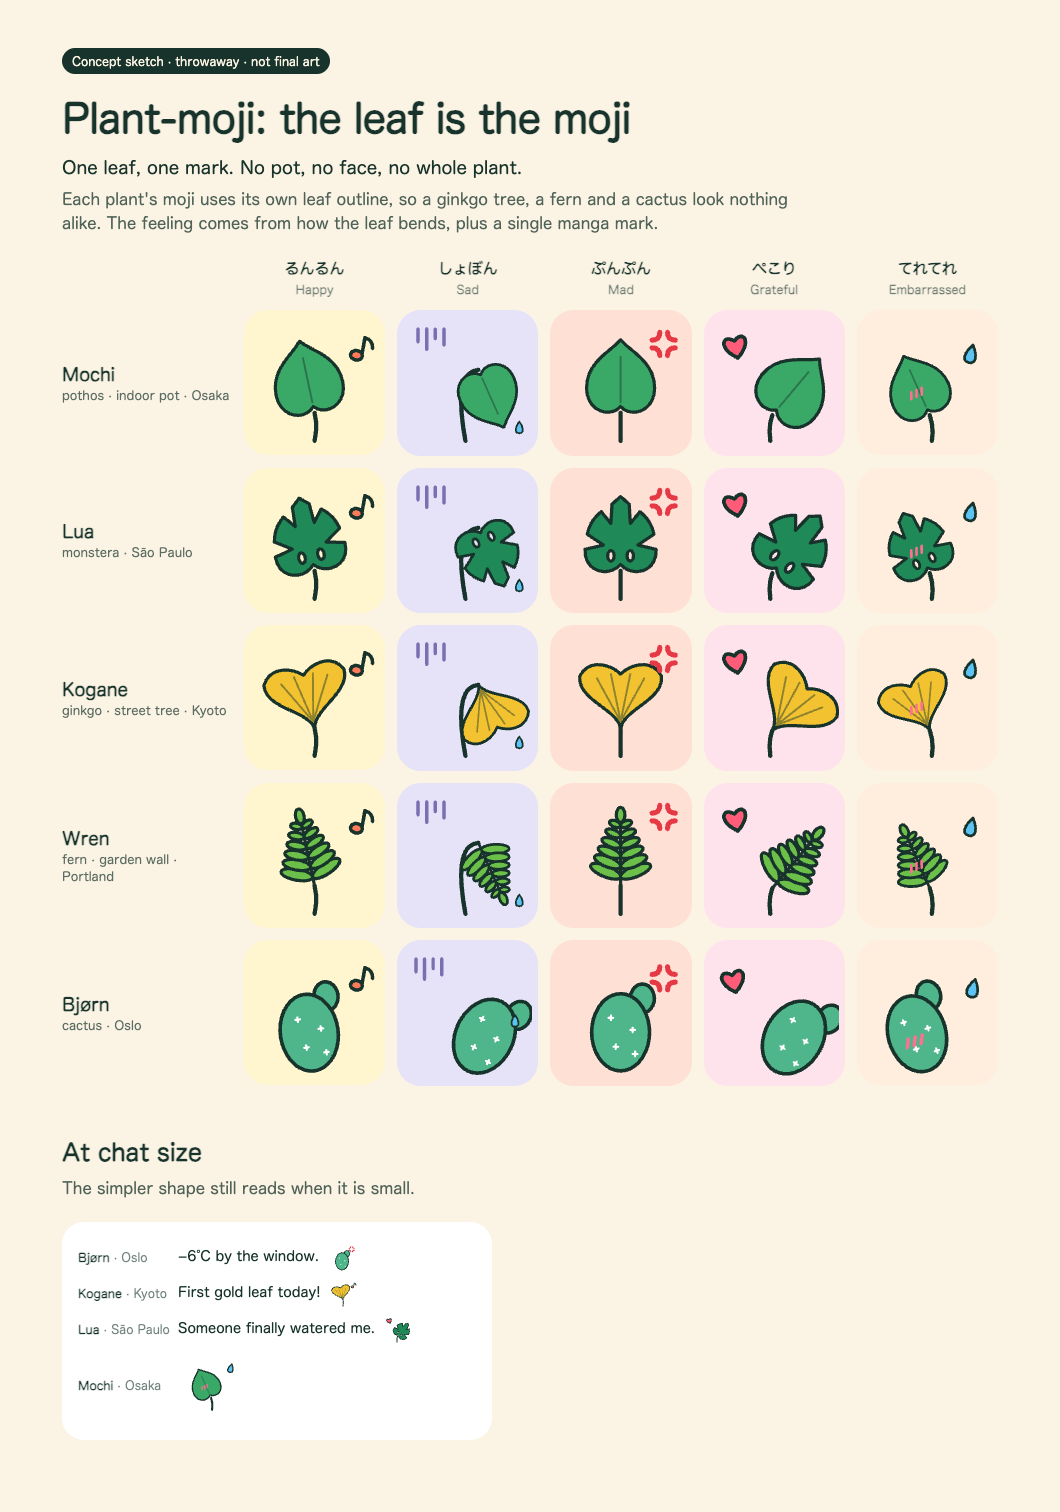
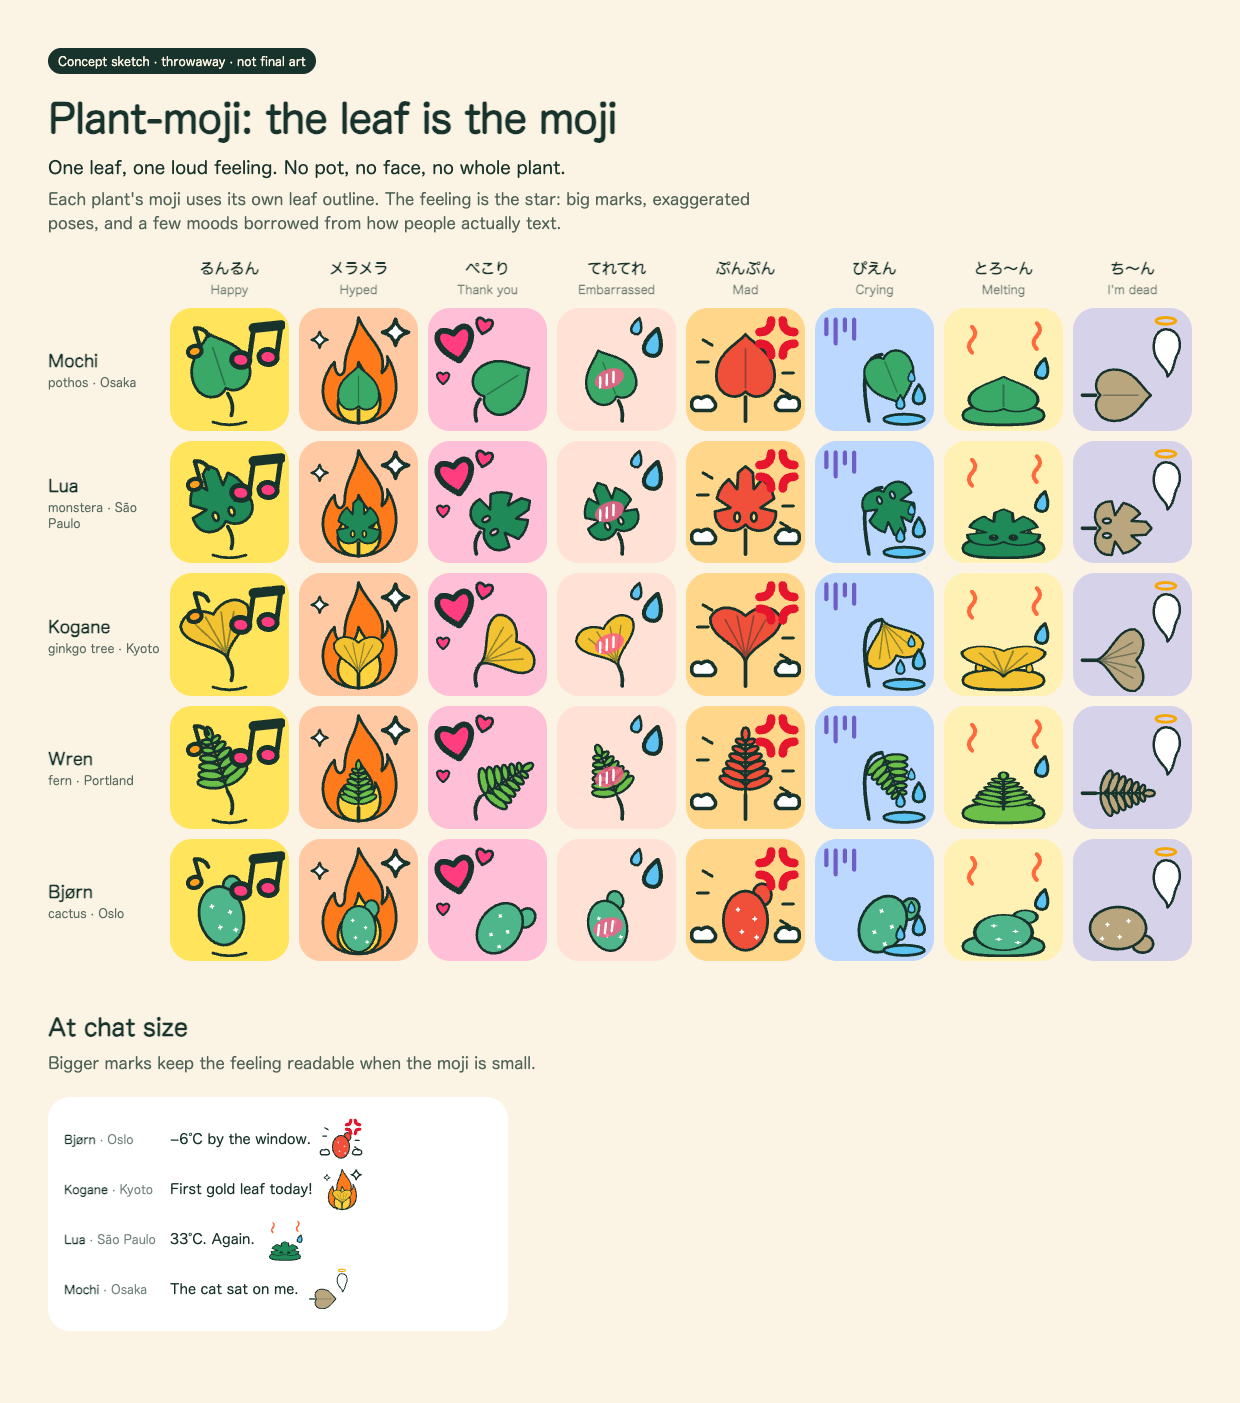
feat(mockups): make plant-moji feelings louder and funnier
Bigger marks, exaggerated poses, and new moods: hyped, crying,
melting and I'm dead.

Claude-Session: https://claude.ai/code/session_018BJkmKwSHGXgfyQunbc3B2

diff --git a/mockups/plant-moji/plant-moji-leaf.html b/mockups/plant-moji/plant-moji-leaf.html
@@ -9,45 +9,44 @@
   * { box-sizing: border-box; }
   body { margin:0; background:var(--cream); color:var(--ink);
     font-family: ui-rounded, "Hiragino Maru Gothic ProN", "Nunito", system-ui, sans-serif; }
-  main { max-width:1000px; margin:0 auto; padding:48px 32px 72px; }
+  main { max-width:1200px; margin:0 auto; padding:48px 28px 72px; }
   h1 { font-size:40px; margin:0 0 6px; letter-spacing:-.5px; }
   h2 { font-size:24px; margin:48px 0 6px; }
   p.lead { font-size:18px; margin:0 0 6px; max-width:720px; line-height:1.5; }
   p.sub { margin:0 0 22px; opacity:.75; max-width:740px; line-height:1.5; }
   .tag { display:inline-block; background:var(--ink); color:var(--cream); font-size:12px; padding:4px 10px; border-radius:99px; margin-bottom:14px; }
-  .table { display:grid; grid-template-columns:170px repeat(5,1fr); gap:12px; align-items:center; }
+  .table { display:grid; grid-template-columns:112px repeat(8,1fr); gap:10px; align-items:center; }
   .head { text-align:center; font-weight:800; font-size:15px; }
   .head small { display:block; font-weight:600; opacity:.6; font-size:12px; }
-  .plant b { font-size:18px; display:block; } .plant span { font-size:12.5px; opacity:.7; line-height:1.35; display:block; }
-  .cell { background:#fff; border-radius:24px; padding:6px; }
+  .plant b { font-size:17px; display:block; } .plant span { font-size:12px; opacity:.7; line-height:1.35; display:block; }
+  .cell { border-radius:22px; padding:4px; }
   .cell svg { width:100%; height:auto; display:block; }
-  .chat { background:#fff; border-radius:22px; padding:14px 16px; max-width:430px; }
+  .chat { background:#fff; border-radius:22px; padding:14px 16px; max-width:460px; }
   .row { display:flex; align-items:center; gap:8px; font-size:14px; margin:6px 0; }
-  .row svg { width:30px; height:30px; flex:none; }
-  .row .big svg { width:64px; height:64px; }
-  .n { font-weight:800; font-size:12px; min-width:92px; } .n i { font-style:normal; font-weight:500; opacity:.6; }
+  .row svg { width:44px; height:44px; flex:none; }
+  .n { font-weight:800; font-size:12px; min-width:98px; } .n i { font-style:normal; font-weight:500; opacity:.6; }
   .ink * { stroke:var(--ink); stroke-width:3; stroke-linejoin:round; stroke-linecap:round; }
   .ink .line { fill:none !important; }
+  .ink .flat { stroke-width:0; }
 </style>
 </head>
 <body>
 <main>
   <span class="tag">Concept sketch · throwaway · not final art</span>
   <h1>Plant-moji: the leaf is the moji</h1>
-  <p class="lead">One leaf, one mark. No pot, no face, no whole plant.</p>
-  <p class="sub">Each plant's moji uses its own leaf outline, so a ginkgo tree, a fern and a cactus look nothing alike. The feeling comes from how the leaf bends, plus a single manga mark.</p>
+  <p class="lead">One leaf, one loud feeling. No pot, no face, no whole plant.</p>
+  <p class="sub">Each plant's moji uses its own leaf outline. The feeling is the star: big marks, exaggerated poses, and a few moods borrowed from how people actually text.</p>
 
   <div class="table" id="table"></div>
 
   <h2>At chat size</h2>
-  <p class="sub">The simpler shape still reads when it is small.</p>
+  <p class="sub">Bigger marks keep the feeling readable when the moji is small.</p>
   <div class="chat" id="chat"></div>
 </main>
 
 <script>
-const rad = d => d * Math.PI / 180;
 const svg = body => `<svg viewBox="0 0 120 124" xmlns="http://www.w3.org/2000/svg"><g class="ink">${body}</g></svg>`;
-const T = (x, y, s = 1, r = 0) => `transform="translate(${x} ${y}) rotate(${r}) scale(${s})"`;
+const T = (x, y, s = 1, r = 0, sy = s) => `transform="translate(${x} ${y}) rotate(${r}) scale(${s} ${sy})"`;
 const thin = d => `<path class="line" d="${d}" style="stroke-width:1.8;opacity:.45"/>`;
 
 // leaf blades: base at 0,0, pointing up, about 68 tall
@@ -62,40 +61,56 @@ const SHAPES = {
   cactus: c => `<ellipse cx="18" cy="-60" rx="10" ry="12" fill="${c}"/><ellipse cx="0" cy="-32" rx="24" ry="32" fill="${c}"/>` +
     `<path class="line" d="M-10 -44 h4 M-8 -46 v4 M8 -34 h4 M10 -36 v4 M-6 -20 h4 M-4 -22 v4 M10 -14 h4 M12 -16 v4" style="stroke:#fff;stroke-width:1.8"/>`,
 };
-// one mark each
-const note = (x, y) => `<g ${T(x, y, 1.1, 10)}><path class="line" d="M4.5 6 V-10 q7 1 8 8"/><ellipse cx="0" cy="6" rx="5" ry="4" fill="#ff7a59"/></g>`;
-const drop = (x, y, s = 1, r = 0) => `<path ${T(x, y, s, r)} d="M0 -11 C 8 0 8 9 0 9 C -8 9 -8 0 0 -11Z" fill="#5cc3f2"/>`;
-const anger = (x, y) => `<path class="line" ${T(x, y, 1.2)} d="M-9 -3 q6 0 6 -6 M3 -9 q0 6 6 6 M9 3 q-6 0 -6 6 M-3 9 q0 -6 -6 -6" style="stroke:#e63946;stroke-width:4"/>`;
-const heart = (x, y) => `<path ${T(x, y, 1.15, -12)} d="M0 8 C -15 -3 -8 -14 0 -6 C 8 -14 15 -3 0 8Z" fill="#ff5c7a"/>`;
-const blush = `<path class="line" d="M-8 -30 l-3 7 M-2 -30 l-3 7 M4 -30 l-3 7" style="stroke:#ff6f91;stroke-width:2.8"/>`;
-const gloom = (x, y) => `<path class="line" transform="translate(${x} ${y})" d="M0 0 v12 M8 0 v19 M16 0 v9 M24 0 v15" style="stroke:#7a6fb0;stroke-width:3.2"/>`;
 
+// loud marks
+const notes = (x, y, s, r, c) => `<g ${T(x, y, s, r)}><path class="line" d="M-5 8 V-12 L11 -16 V4"/><path class="line" d="M-5 -12 L11 -16" style="stroke-width:6"/><ellipse cx="-10" cy="8" rx="5.5" ry="4.5" fill="${c}"/><ellipse cx="6" cy="4" rx="5.5" ry="4.5" fill="${c}"/></g>`;
+const note1 = (x, y, s, r, c) => `<g ${T(x, y, s, r)}><path class="line" d="M4.5 6 V-10 q7 1 8 8"/><ellipse cx="0" cy="6" rx="5" ry="4" fill="${c}"/></g>`;
+const drop = (x, y, s = 1, r = 0, c = '#5cc3f2') => `<path ${T(x, y, s, r)} d="M0 -11 C 8 0 8 9 0 9 C -8 9 -8 0 0 -11Z" fill="${c}"/>`;
+const anger = (x, y, s) => `<path class="line" ${T(x, y, s)} d="M-9 -3 q6 0 6 -6 M3 -9 q0 6 6 6 M9 3 q-6 0 -6 6 M-3 9 q0 -6 -6 -6" style="stroke:#e6142d;stroke-width:4.5"/>`;
+const heart = (x, y, s = 1, r = 0) => `<path ${T(x, y, s, r)} d="M0 8 C -15 -3 -8 -14 0 -6 C 8 -14 15 -3 0 8Z" fill="#ff3d7f"/>`;
+const sparkle = (x, y, s = 1) => `<path ${T(x, y, s)} d="M0 -11 Q1.8 -1.8 11 0 Q1.8 1.8 0 11 Q-1.8 1.8 -11 0 Q-1.8 -1.8 0 -11Z" fill="#fff"/>`;
+const puff = (x, y, s, f = 1) => `<path transform="translate(${x} ${y}) scale(${f * s} ${s})" d="M0 0 a5 5 0 0 1 8 -5 a6 6 0 0 1 10 2 a4.5 4.5 0 0 1 -2 8 h-13 a4 4 0 0 1 -3 -5Z" fill="#fff"/>`;
+const gloom = (x, y) => `<path class="line" transform="translate(${x} ${y})" d="M0 0 v16 M10 0 v26 M20 0 v12 M30 0 v21" style="stroke:#6d5fc7;stroke-width:4.5"/>`;
+const steam = (x, y) => `<path class="line" transform="translate(${x} ${y})" d="M0 0 q-7 -7 0 -14 q7 -7 0 -14" style="stroke:#ff6a3d;stroke-width:4.5"/>`;
+const hop = `<path class="line" d="M42 119 q18 6 36 0" style="stroke-width:3"/>`;
+const shake = `<path class="line" d="M24 36 l-10 -6 M20 54 h-12 M100 66 h12 M98 84 l10 6" style="stroke-width:3.2"/>`;
+const flame = `<path d="M60 120 C 18 120 12 78 34 54 C 34 70 43 72 45 62 C 45 36 58 28 60 6 C 70 30 92 40 85 66 C 91 62 93 54 91 48 C 110 78 102 120 60 120Z" fill="#ff7a1a"/>` +
+  `<path transform="translate(60 120) scale(.58) translate(-60 -120)" d="M60 120 C 18 120 12 78 34 54 C 34 70 43 72 45 62 C 45 36 58 28 60 6 C 70 30 92 40 85 66 C 91 62 93 54 91 48 C 110 78 102 120 60 120Z" fill="#ffd23f" style="stroke-width:5"/>`;
+const puddle = c => `<path d="M16 112 C 16 102 38 100 60 100 C 82 100 104 102 104 112 C 104 121 82 122 60 122 C 38 122 16 121 16 112Z" fill="${c}"/>`;
+const tears = `<ellipse cx="92" cy="116" rx="22" ry="5.5" fill="#5cc3f2"/>` + drop(108, 90, 1.05) + drop(88, 98, .75) + drop(100, 70, .6);
+const soul = `<g transform="translate(96 42) scale(.9)"><path d="M0 -26 C 17 -26 21 -6 13 6 C 9 14 11 22 2 31 C 2 22 -5 20 -9 12 C -19 0 -15 -26 0 -26Z" fill="#fff"/><ellipse class="line" cx="0" cy="-36" rx="12" ry="4" style="stroke:#f5a700;stroke-width:3.5"/></g>`;
+const flush = `<ellipse class="flat" cx="0" cy="-30" rx="19" ry="12" fill="#ff5c8a" opacity=".8"/><path class="line" d="M-10 -36 l-5 12 M-1 -36 l-5 12 M8 -36 l-5 12" style="stroke:#fff;stroke-width:3"/>`;
+
+// pose per feeling; `rigid` overrides apply to plants with no stalk to bend
 const POSE = {
-  happy:  { ax: 60, ay: 90, rot: -12, stalk: 'M60 116 Q63 102 60 90', mark: note(100, 30) },
-  sad:    { ax: 70, ay: 50, rot: 156, sc: .86, stalk: 'M58 116 Q46 52 70 50', mark: gloom(14, 12) + drop(108, 104, .55) },
-  mad:    { ax: 60, ay: 90, rot: 0, stalk: 'M60 116 V90', mark: anger(100, 26) },
-  thanks: { ax: 58, ay: 92, rot: 40, stalk: 'M56 116 Q54 102 58 92', mark: heart(24, 30) },
-  shy:    { ax: 62, ay: 92, rot: -24, sc: .88, stalk: 'M64 116 Q66 104 62 92', blush: true, mark: drop(100, 36, .85, 14) },
-};
-const RIGID = { // cactus pads stand on their own, so they only tilt
-  happy: { rot: -8, mark: note(100, 30) }, sad: { rot: 26, mark: gloom(12, 12) + drop(104, 70, .55) },
-  mad: { rot: 0, mark: anger(100, 30) }, thanks: { rot: 30, mark: heart(22, 34) }, shy: { rot: -16, blush: true, mark: drop(102, 40, .85, 14) },
+  happy:  { ax: 58, ay: 88, rot: -18, stalk: 'M62 112 Q66 100 58 88', front: hop + notes(92, 40, 1.8, 8, '#ff3d7f') + note1(20, 34, 1.5, -16, '#ff9f1c'), rigid: { rot: -12, ay: 110 } },
+  hyped:  { ax: 60, ay: 106, sc: .7, rot: 0, stalk: 'M60 120 V106', back: flame, front: sparkle(100, 22, 1.3) + sparkle(18, 30, .8), rigid: { sc: .78, ay: 118 } },
+  thanks: { ax: 52, ay: 94, rot: 58, sc: .92, stalk: 'M48 118 Q44 104 52 94', front: heart(26, 36, 2.1, -12) + heart(56, 16, 1, 12) + heart(12, 72, .75), rigid: { rot: 36, ax: 56 } },
+  shy:    { ax: 62, ay: 96, rot: -22, sc: .86, stalk: 'M66 118 Q68 106 62 96', inner: flush, front: drop(100, 34, 1.5, 16) + drop(82, 16, .9, 16), rigid: { rot: -16, ax: 58 } },
+  mad:    { ax: 60, ay: 92, rot: 0, color: '#f0503a', stalk: 'M60 118 V92', front: shake + puff(2, 100, 1.3) + puff(118, 100, 1.3, -1) + anger(94, 28, 2.1), rigid: {} },
+  sad:    { ax: 68, ay: 46, rot: 158, sc: .84, stalk: 'M54 118 Q40 48 68 46', front: gloom(8, 8) + tears, rigid: { rot: 28, ax: 54, sc: 1 } },
+  melt:   { ax: 60, ay: 108, rot: 0, sc: 1.18, sy: .56, back: 'PUDDLE', front: steam(26, 44) + steam(96, 40) + drop(102, 62, 1.1, 14), rigid: { sc: 1.3, sy: .6 } },
+  dead:   { ax: 20, ay: 90, rot: 90, sc: .88, color: '#b9a57e', stalk: 'M6 90 H20', front: soul, rigid: { ax: 14, ay: 92, sc: .95 } },
 };
 function moji(shape, color, emo) {
-  if (shape === 'cactus') {
-    const p = RIGID[emo];
-    return svg(`<g ${T(60, 116, 1.12, p.rot)}>${SHAPES.cactus(color)}${p.blush ? blush : ''}</g>${p.mark}`);
-  }
-  const p = POSE[emo];
-  return svg(`<path class="line" d="${p.stalk}" style="stroke-width:4"/><g ${T(p.ax, p.ay, p.sc || 1, p.rot)}>${SHAPES[shape](color)}${p.blush ? blush : ''}</g>${p.mark}`);
+  const rigid = shape === 'cactus';
+  const p = rigid ? { ...POSE[emo], ay: 116, stalk: null, ...POSE[emo].rigid } : POSE[emo];
+  const c = p.color || color, sc = p.sc || 1;
+  const back = p.back === 'PUDDLE' ? puddle(c) + drop(34, 96, .7, 0, c) + drop(88, 98, .6, 0, c) : (p.back || '');
+  const stalk = p.stalk ? `<path class="line" d="${p.stalk}" style="stroke-width:4"/>` : '';
+  return svg(`${back}${stalk}<g ${T(p.ax, p.ay, sc, p.rot, p.sy || sc)}>${SHAPES[shape](c)}${p.inner || ''}</g>${p.front}`);
 }
 
-const EMO = [['happy', 'Happy', 'るんるん', '#fff6cf'], ['sad', 'Sad', 'しょぼん', '#e6e3f8'], ['mad', 'Mad', 'ぷんぷん', '#ffe0d4'], ['thanks', 'Grateful', 'ぺこり', '#ffe3ec'], ['shy', 'Embarrassed', 'てれてれ', '#ffeede']];
+const EMO = [
+  ['happy', 'Happy', 'るんるん', '#ffe45c'], ['hyped', 'Hyped', 'メラメラ', '#ffc9a3'], ['thanks', 'Thank you', 'ぺこり', '#ffbfd6'],
+  ['shy', 'Embarrassed', 'てれてれ', '#ffe1d6'], ['mad', 'Mad', 'ぷんぷん', '#ffd68a'], ['sad', 'Crying', 'ぴえん', '#bcd8ff'],
+  ['melt', 'Melting', 'とろ〜ん', '#fff0b3'], ['dead', "I'm dead", 'ち〜ん', '#d6d2ea'],
+];
 const PLANTS = [
-  ['Mochi', 'pothos · indoor pot · Osaka', 'heart', '#3aa866'],
+  ['Mochi', 'pothos · Osaka', 'heart', '#3aa866'],
   ['Lua', 'monstera · São Paulo', 'monstera', '#1f8a57'],
-  ['Kogane', 'ginkgo · street tree · Kyoto', 'ginkgo', '#f2c230'],
-  ['Wren', 'fern · garden wall · Portland', 'fern', '#6cc04a'],
+  ['Kogane', 'ginkgo tree · Kyoto', 'ginkgo', '#f2c230'],
+  ['Wren', 'fern · Portland', 'fern', '#6cc04a'],
   ['Bjørn', 'cactus · Oslo', 'cactus', '#4fb58a'],
 ];
 let html = '<div></div>' + EMO.map(e => `<div class="head">${e[2]}<small>${e[1]}</small></div>`).join('');
@@ -107,9 +122,9 @@ document.getElementById('table').innerHTML = html;
 
 document.getElementById('chat').innerHTML = [
   `<div class="row"><span class="n">Bjørn <i>· Oslo</i></span>−6°C by the window. ${moji('cactus', '#4fb58a', 'mad')}</div>`,
-  `<div class="row"><span class="n">Kogane <i>· Kyoto</i></span>First gold leaf today! ${moji('ginkgo', '#f2c230', 'happy')}</div>`,
-  `<div class="row"><span class="n">Lua <i>· São Paulo</i></span>Someone finally watered me. ${moji('monstera', '#1f8a57', 'thanks')}</div>`,
-  `<div class="row"><span class="n">Mochi <i>· Osaka</i></span><span class="big">${moji('heart', '#3aa866', 'shy')}</span></div>`,
+  `<div class="row"><span class="n">Kogane <i>· Kyoto</i></span>First gold leaf today! ${moji('ginkgo', '#f2c230', 'hyped')}</div>`,
+  `<div class="row"><span class="n">Lua <i>· São Paulo</i></span>33°C. Again. ${moji('monstera', '#1f8a57', 'melt')}</div>`,
+  `<div class="row"><span class="n">Mochi <i>· Osaka</i></span>The cat sat on me. ${moji('heart', '#3aa866', 'dead')}</div>`,
 ].join('');
 </script>
 </body>

diff --git a/vault/features/plant-moji.md b/vault/features/plant-moji.md
@@ -50,7 +50,9 @@ The feeling is our interpretation of an event the plant already has on record. E
 | Watered after a dry week | Grateful ぺこり | bowing forward, heart |
 | Caught with a yellow leaf | Embarrassed てれてれ | turned away, blush lines, sweat drop |
 
-Further feelings sketched: startled, sleepy, excited, worried, proud, cozy.
+Further feelings sketched: startled, sleepy, excited, worried, proud, cozy, and the louder texting moods hyped (メラメラ, in flames), crying (ぴえん, a puddle of tears), melting (とろ〜ん) and "I'm dead" (ち〜ん, flat with a little ghost).
+
+The feeling must be the loudest part of the moji (user, 2026-10-13): big marks, exaggerated poses, funny and current.
 
 ### Making a moji
 1. An event is detected (same triggers as [[plant-voice]]).
